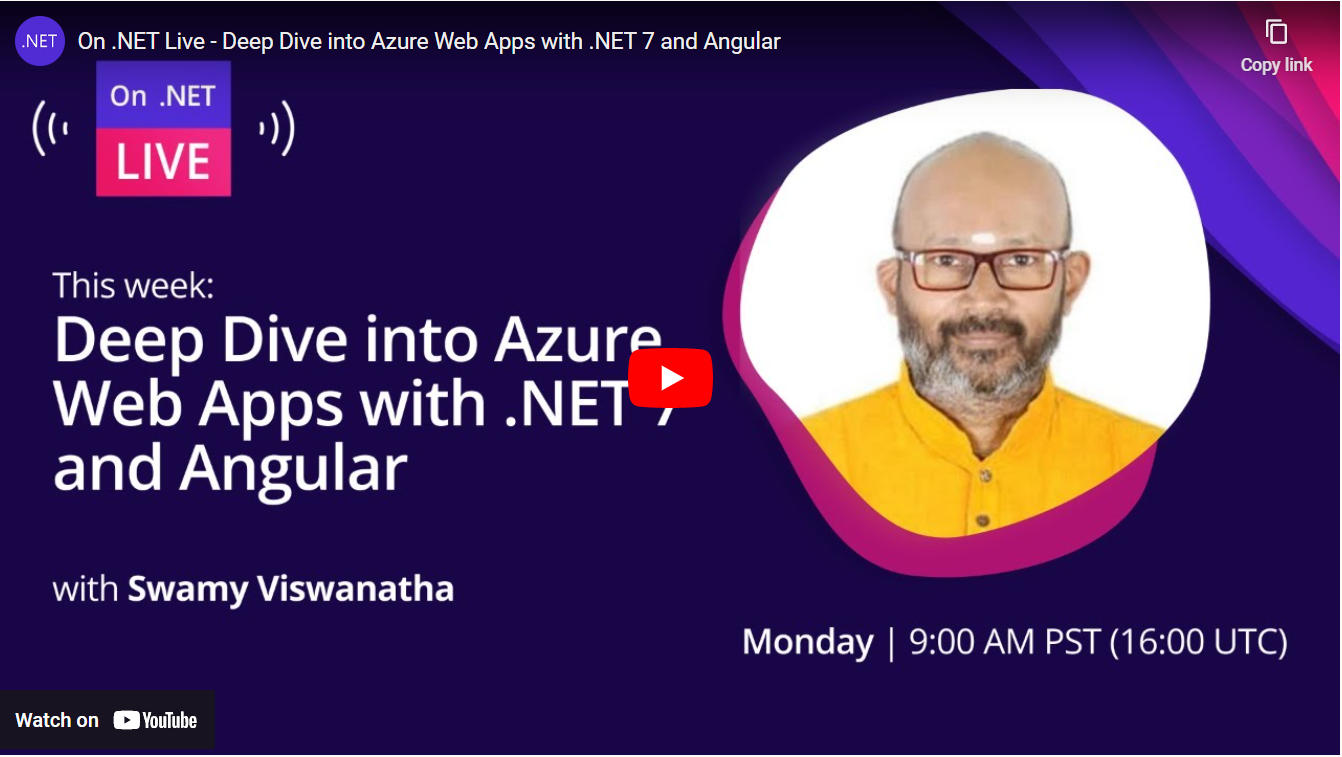
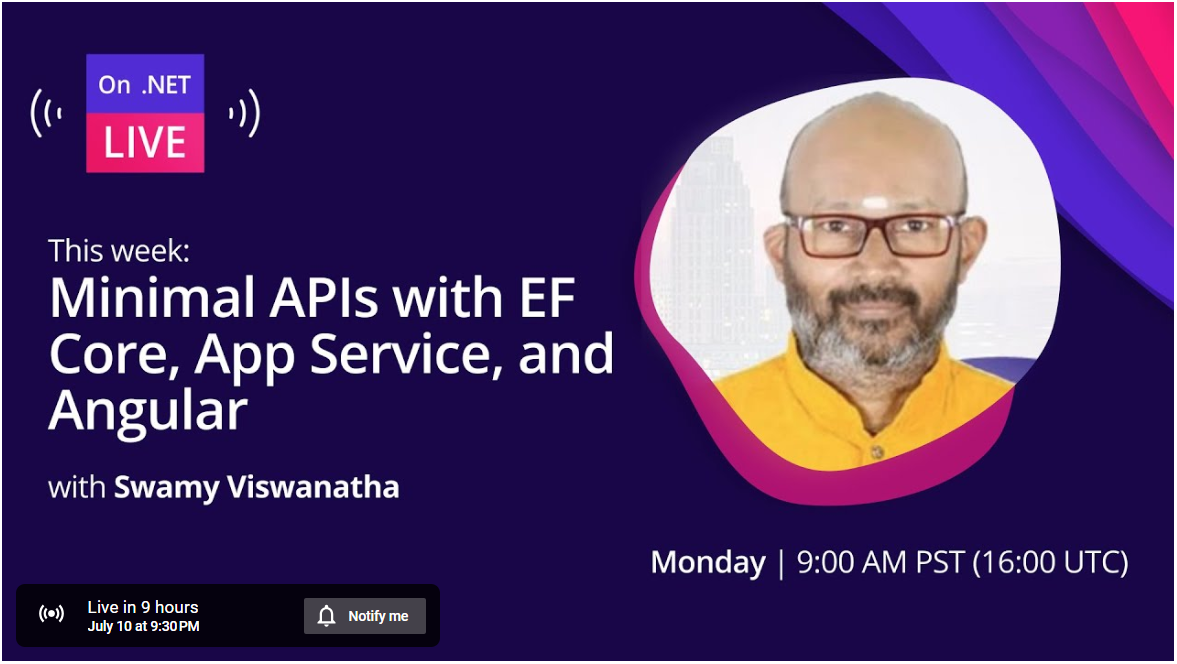
Changes

diff --git a/On.NETLiveShows/20230710_MinimalApiEFCoreAngular/README.md b/On.NETLiveShows/20230710_MinimalApiEFCoreAngular/README.md
@@ -1,8 +1,8 @@
-# Deep Dive into Azure Web Apps with .NET 7 and Angular in On .NET Live
+# Minimal APIs with EF Core, App Service, and Angular in On .NET Live
 
-## Date Time: 15-May-2023 at 09:30 PM IST
+## Date Time: 10-Jul-2023 at 09:30 PM IST
 
-## YouTube URL: [https://www.youtube.com/watch?v=RF63hmk1pw8](https://www.youtube.com/watch?v=RF63hmk1pw8)
+## YouTube URL: [https://www.youtube.com/watch?v=MUuyd5RVJe4](https://www.youtube.com/watch?v=MUuyd5RVJe4)
 
 ![Viswanatha Swamy P K |150x150](./Documentation/Images/ViswanathaSwamyPK.PNG)
 
@@ -20,11 +20,11 @@
 > 1. Programming knowledge in C#
 > 1. Azure
 > 1. Angular 15
-> 1. .NET Razor/Blazor WASM
+> 1. .NET REST API
 
 ## Technology Stack
 
-> 1. .NET 7, Azure
+> 1. .NET 7, Azure, and Angular 15
 
 ## Information
 
@@ -32,21 +32,25 @@
 
 ## What are we doing today?
 
-> 1. Empty Web App and hosting html
-> 1. App Service plan, Wild card
-> 1. Static Site
-> 1. Minimal API
+> 1. Comparision of Service Collections
+>    - Web App Empty | Web API with Uncheck Controllers | Web API with Controllers
+> 1. Comparison of HTTP Request Pipeline
+>    - Web App Empty | Web API with Uncheck Controllers | Web API with Controllers
+> 1. Parameter Binding demo with User Endpoints
+>    - From Query | From Route | From Body | From Services
+> 1. Base Entity - Course Entity inheriting Base Entity
+> 1. Dependency Injection and Inversion of Control - Deep Dive
+>    - Dependency Injection of DbContext, Auto Mapper, Swagger, Repository Layer, Business Layer
+> 1. Returning Unified Response from different Endpoints
+> 1. Move the Endpoints into an Extension Classes
+> 1. Creating Course Dtos using record, and Auto Mapper Configuration - Enhancing GetAllCourses() API Endpoint to return Course Dtos
+> 1. Adding Swagger Dependencies - WithTags().WithName().Produces(200).ProducesProblem(500);
+> 1. Move Service Dependencies, and Http Request Pipeline Dependencies into a Extension Classes
+> 1. Logging using Serilog
+> 1. Configuration CORS in Development Mode
 > 1. Angular 15 (SPA with Standalone components) integration with Minimal API Only GetAllCourses() Local API Endpoint
-> 1. .NET Web API with SQL Server
-> 1. Deployments to Azure Web App
->    1. Couple of the Manual Deployment Options
->        1. Visual Studio Code
->        1. Visual Studio 2022
->    1. Couple of the Automated Deployment Options
->        1. GitHub Actions
->        1. Azure DevOps
-> 1. CI/CD feature of Web Application
-> 1. GitHub Actions to build API
+> 1. Angular 15 (SPA with Standalone components) integration with Minimal API Only GetAllCourses() Azure Hosted API Endpoint
+> 1. SUMMARY / RECAP / Q&A
 
 ### Please refer to the [**Source Code**](https://github.com/Microservices-for-Small-School-App/services-school) of today's session for more details
 
